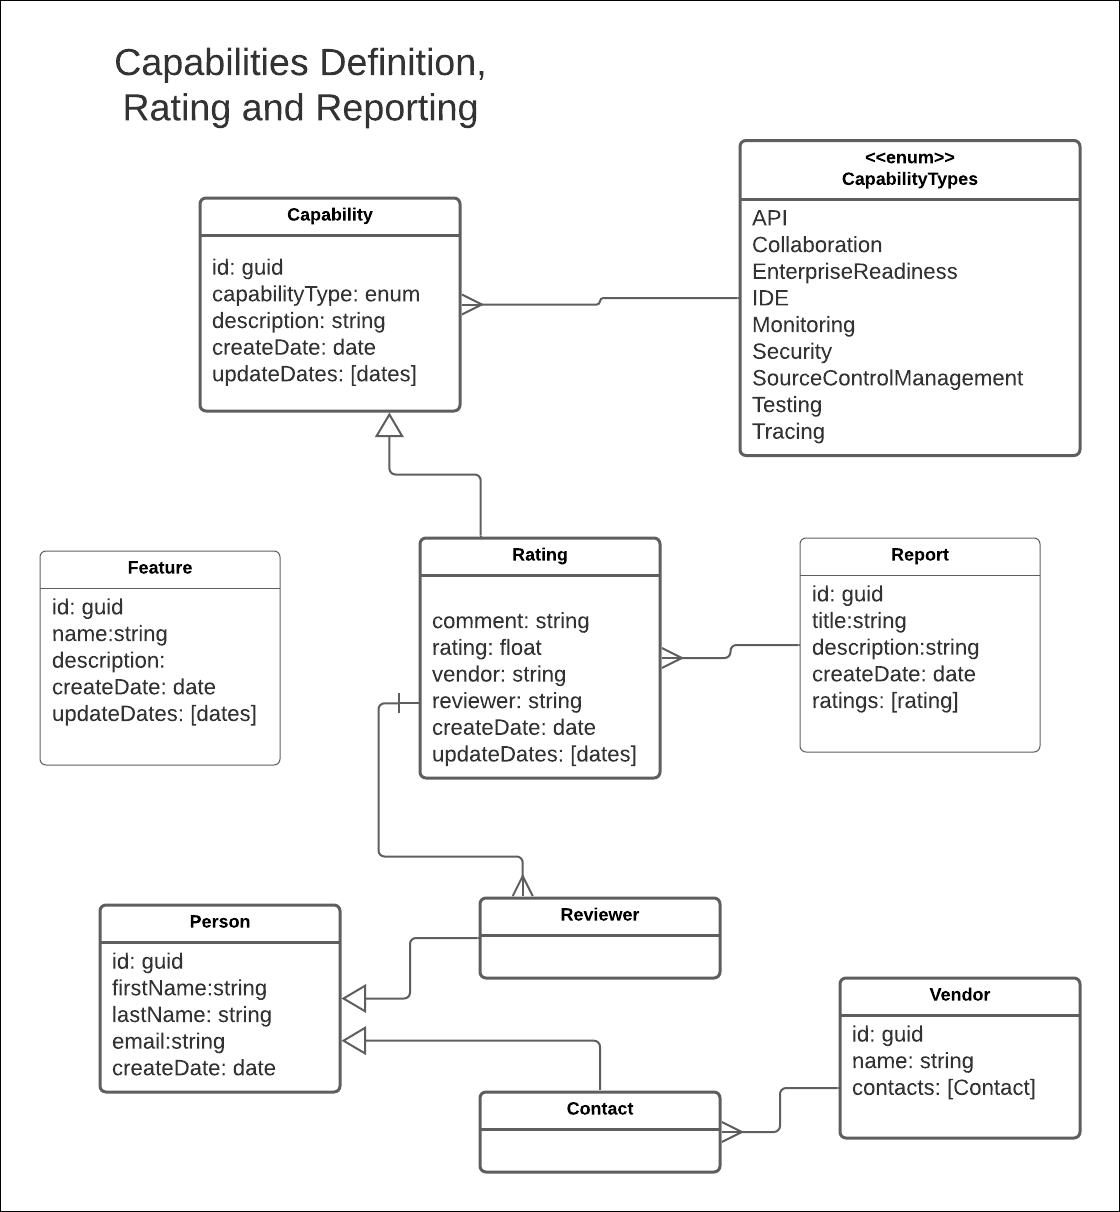
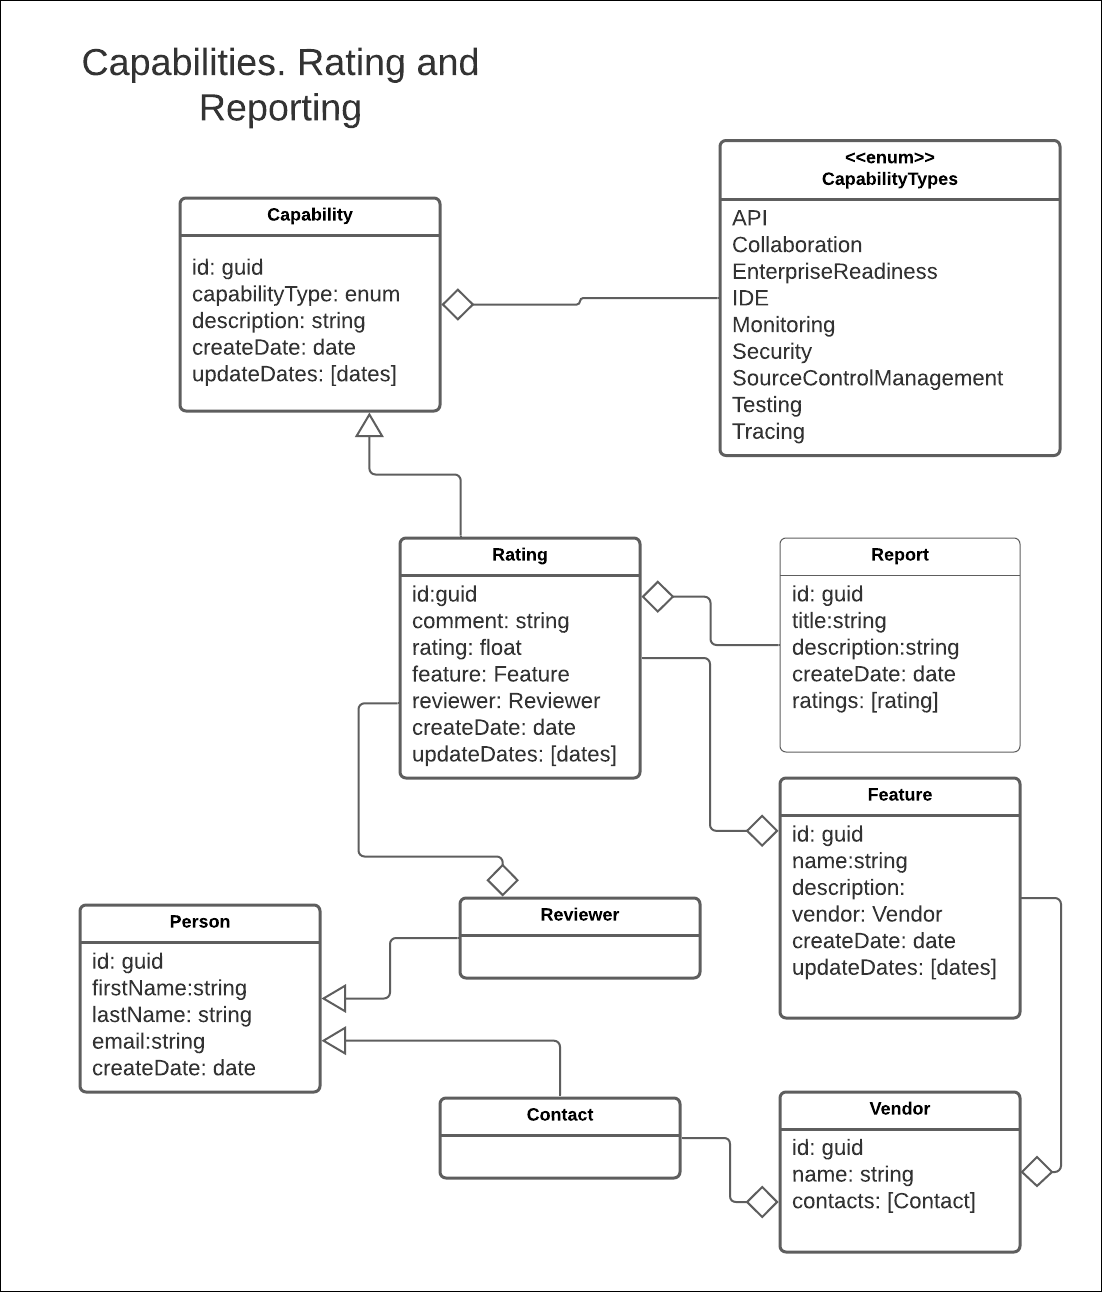
adding reviewer

diff --git a/src/models/models.ts b/src/models/models.ts
@@ -17,6 +17,14 @@ export interface IReviewer extends Document {
   firstName:  string;
   lastName: string;
   email: string;
+  createDate?: Date;
+}
+
+export interface IFeature extends Document {
+  //_id: string;
+  description:  string;
+  vendor: IVendor;
+  createDate?: Date;
 }
 
 export interface IVendor extends Document {
@@ -61,10 +69,31 @@ export interface IFullRating extends IRating{
   capability: ISimpleCapability;
 }
 
+const reviewerSchema: Schema = new Schema({
+  firstName: { type: String, required: true },
+  lastName: { type: String, required: true },
+  email: { type: String, required: true },
+  createDate: { type: Date, default: Date.now },
+});
+
 const capabilitySchema: Schema = new Schema({
   capabilityType: { type: String, enum: Object.values(CapabilityType) },
   description: { type: String, required: true },
   createDate: { type: Date, default: Date.now },
+});
+
+const featureSchema: Schema = new Schema({
+  description: { type: String, required: true },
+  createDate: { type: Date, default: Date.now },
+  vendor: {
+    name: {type: String, required: true},
+    comment: {type: String, required: true},
+    contact:{
+      firstName: {type: String, required: true},
+      lastName: {type: String, required: true},
+      email: {type: String, required: true},
+    }
+  }
 });
 
 const ratingSchema: Schema = new Schema( {
@@ -90,7 +119,9 @@ const ratingSchema: Schema = new Schema( {
   capability_id:{type: String, required: true},
 });
 
+const Reviewer = mongoose.model<IReviewer>('Reviewer', reviewerSchema);
 const Capability = mongoose.model<ICapability>('Capability', capabilitySchema);
 const Rating = mongoose.model<IRating>('Rating', ratingSchema);
+const Feature = mongoose.model<IFeature>('Feature', featureSchema);
 
-export { Capability, Rating };
+export { Capability, Rating, Feature, Reviewer };
